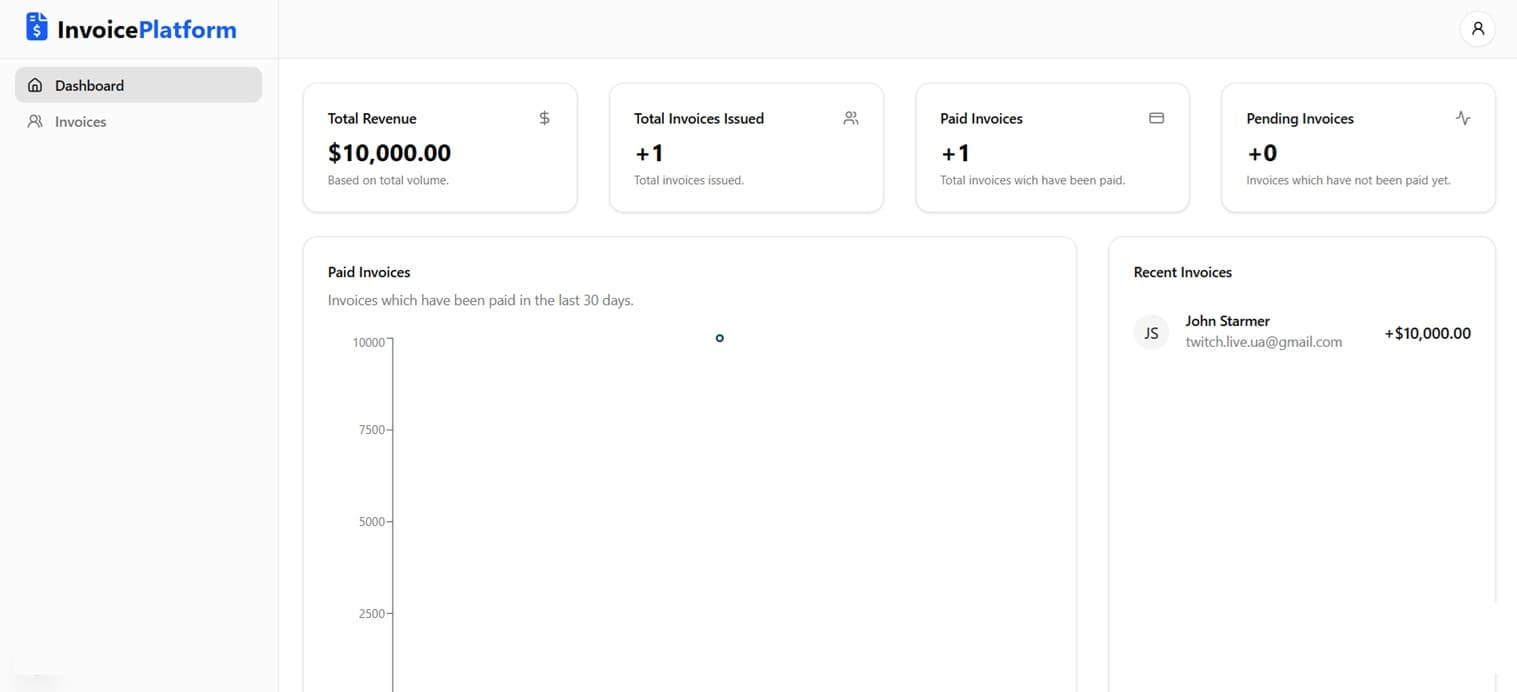
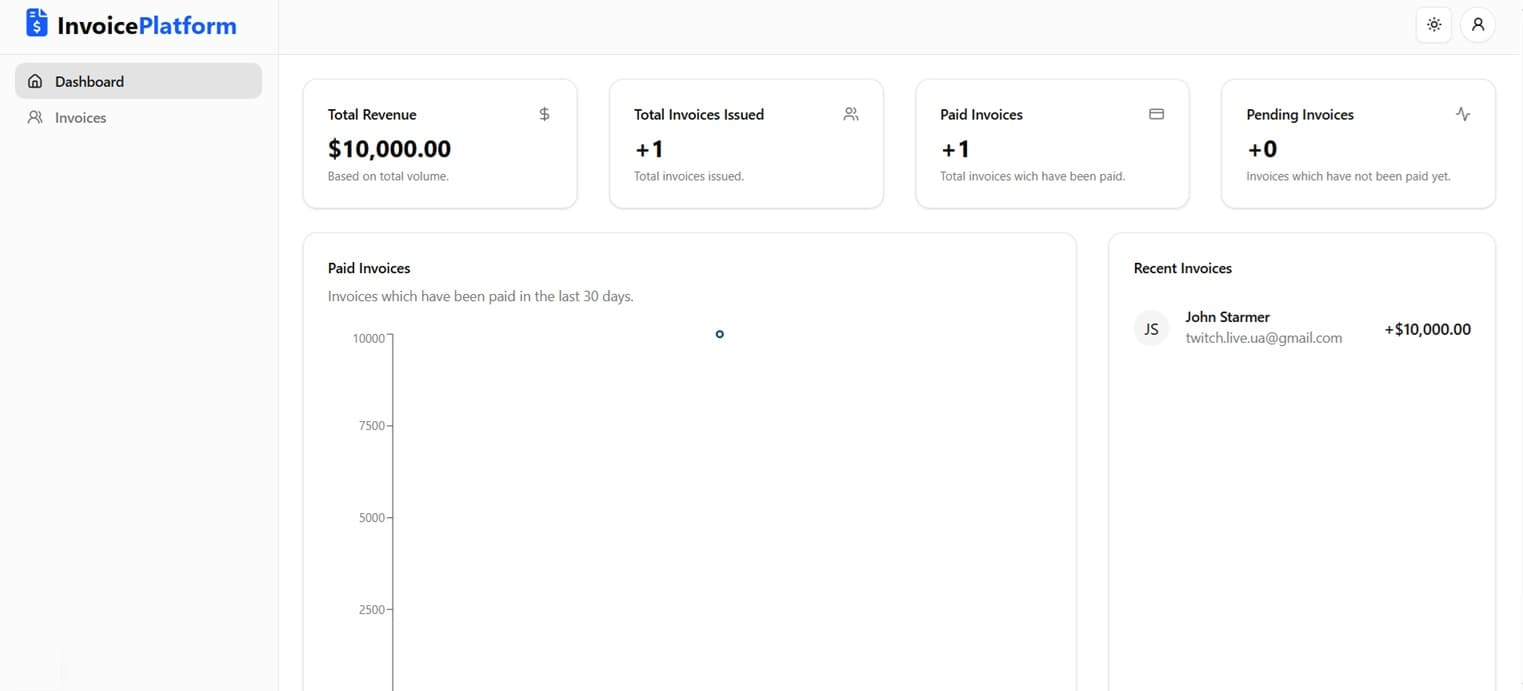
Added light/dark mode

diff --git a/components/theme-toggle.tsx b/components/theme-toggle.tsx
@@ -1,0 +1,39 @@
+"use client";
+
+import { useTheme } from "next-themes";
+import { Moon, Sun } from "lucide-react";
+
+import {
+  DropdownMenu,
+  DropdownMenuContent,
+  DropdownMenuItem,
+  DropdownMenuTrigger,
+} from "@/components/ui/dropdown-menu";
+import { Button } from "@/components/ui/button";
+
+export const ThemeToggle = () => {
+  const { setTheme } = useTheme();
+
+  return (
+    <DropdownMenu>
+      <DropdownMenuTrigger asChild>
+        <Button variant="outline" size="icon">
+          <Sun className="h-[1.2rem] w-[1.2rem] scale-100 rotate-0 transition-all dark:scale-0 dark:-rotate-90" />
+          <Moon className="absolute h-[1.2rem] w-[1.2rem] scale-0 rotate-90 transition-all dark:scale-100 dark:rotate-0" />
+          <span className="sr-only">Toggle theme</span>
+        </Button>
+      </DropdownMenuTrigger>
+      <DropdownMenuContent align="end">
+        <DropdownMenuItem onClick={() => setTheme("light")}>
+          Light
+        </DropdownMenuItem>
+        <DropdownMenuItem onClick={() => setTheme("dark")}>
+          Dark
+        </DropdownMenuItem>
+        <DropdownMenuItem onClick={() => setTheme("system")}>
+          System
+        </DropdownMenuItem>
+      </DropdownMenuContent>
+    </DropdownMenu>
+  );
+};

diff --git a/app/verify/page.tsx b/app/verify/page.tsx
@@ -14,8 +14,9 @@ import { buttonVariants } from "@/components/ui/button";
 const Verify = () => {
   return (
     <div className="min-h-screen flex items-center justify-center">
-      <div className="absolute inset-0 -z-10 h-full w-full bg-white bg-[linear-gradient(to_right,#f0f0f0_1px,transparent_1px),linear-gradient(to_bottom,#f0f0f0_1px,transparent_1px)] bg-size-[6rem_4rem]">
-        <div className="absolute bottom-0 left-0 right-0 top-0 bg-[radial-gradient(circle_500px_at_50%_200px,#C9EBFF,transparent)]" />
+      <div className="absolute inset-0 -z-10 h-full w-full">
+        <div className="absolute inset-0 bg-white bg-[linear-gradient(to_right,#f0f0f0_1px,transparent_1px),linear-gradient(to_bottom,#f0f0f0_1px,transparent_1px)] bg-size-[6rem_4rem] dark:hidden" />
+        <div className="hidden dark:block absolute inset-0 [background:radial-gradient(125%_125%_at_50%_10%,#000_40%,#63e_100%)]" />
       </div>
       <Card className="px-5 w-full max-w-sm">
         <CardHeader className="text-center">

diff --git a/app/page.tsx b/app/page.tsx
@@ -4,8 +4,9 @@ import { Navbar } from "@/components/navbar";
 const Home = () => {
   return (
     <main className="max-w-7xl mx-auto px-4 sm:px-6 lg:px-8">
-      <div className="absolute inset-0 -z-10 h-full w-full bg-white bg-[linear-gradient(to_right,#f0f0f0_1px,transparent_1px),linear-gradient(to_bottom,#f0f0f0_1px,transparent_1px)] bg-size-[6rem_4rem]">
-        <div className="absolute bottom-0 left-0 right-0 top-0 bg-[radial-gradient(circle_500px_at_50%_200px,#C9EBFF,transparent)]" />
+      <div className="absolute inset-0 -z-10 h-full w-full">
+        <div className="absolute inset-0 bg-white bg-[linear-gradient(to_right,#f0f0f0_1px,transparent_1px),linear-gradient(to_bottom,#f0f0f0_1px,transparent_1px)] bg-size-[6rem_4rem] dark:hidden" />
+        <div className="hidden dark:block absolute inset-0 [background:radial-gradient(125%_125%_at_50%_10%,#000_40%,#63e_100%)]" />
       </div>
       <Navbar />
       <Hero />

diff --git a/app/login/page.tsx b/app/login/page.tsx
@@ -20,8 +20,9 @@ const Login = async () => {
 
   return (
     <>
-      <div className="absolute inset-0 -z-10 h-full w-full bg-white bg-[linear-gradient(to_right,#f0f0f0_1px,transparent_1px),linear-gradient(to_bottom,#f0f0f0_1px,transparent_1px)] bg-size-[6rem_4rem]">
-        <div className="absolute bottom-0 left-0 right-0 top-0 bg-[radial-gradient(circle_500px_at_50%_200px,#C9EBFF,transparent)]" />
+      <div className="absolute inset-0 -z-10 h-full w-full">
+        <div className="absolute inset-0 bg-white bg-[linear-gradient(to_right,#f0f0f0_1px,transparent_1px),linear-gradient(to_bottom,#f0f0f0_1px,transparent_1px)] bg-size-[6rem_4rem] dark:hidden" />
+        <div className="hidden dark:block absolute inset-0 [background:radial-gradient(125%_125%_at_50%_10%,#000_40%,#63e_100%)]" />
       </div>
       <div className="px-4 h-screen w-full flex items-center justify-center">
         <Card className="w-full max-w-sm">

diff --git a/app/dashboard/layout.tsx b/app/dashboard/layout.tsx
@@ -25,6 +25,7 @@ import { DashboardLinks } from "@/components/dashboard-links";
 import prisma from "@/app/utils/db";
 import { signOut } from "@/app/utils/auth";
 import { requireUser } from "@/app/utils/hooks";
+import { ThemeToggle } from "@/components/theme-toggle";
 
 async function getUser(userId: string) {
   const data = await prisma.user.findUnique({
@@ -71,7 +72,8 @@ const DashboardLayout = async ({ children }: { children: React.ReactNode }) => {
                 />
               </SheetContent>
             </Sheet>
-            <div className="ml-auto flex items-center">
+            <div className="ml-auto flex items-center gap-2">
+              <ThemeToggle />
               <DropdownMenu>
                 <DropdownMenuTrigger asChild>
                   <Button

diff --git a/app/layout.tsx b/app/layout.tsx
@@ -1,6 +1,8 @@
 import type { Metadata } from "next";
 import { Geist, Geist_Mono } from "next/font/google";
 
+import { ThemeProvider } from "@/components/theme-provider";
+
 import "./globals.css";
 
 const geistSans = Geist({
@@ -24,11 +26,18 @@ export default function RootLayout({
   children: React.ReactNode;
 }>) {
   return (
-    <html lang="en">
+    <html lang="en" suppressHydrationWarning>
       <body
         className={`${geistSans.variable} ${geistMono.variable} antialiased`}
       >
-        {children}
+        <ThemeProvider
+          attribute="class"
+          defaultTheme="system"
+          enableSystem
+          disableTransitionOnChange
+        >
+          {children}
+        </ThemeProvider>
       </body>
     </html>
   );

diff --git a/components/theme-provider.tsx b/components/theme-provider.tsx
@@ -1,0 +1,10 @@
+"use client";
+
+import { ThemeProvider as NextThemesProvider } from "next-themes";
+
+export function ThemeProvider({
+  children,
+  ...props
+}: React.ComponentProps<typeof NextThemesProvider>) {
+  return <NextThemesProvider {...props}>{children}</NextThemesProvider>;
+}
